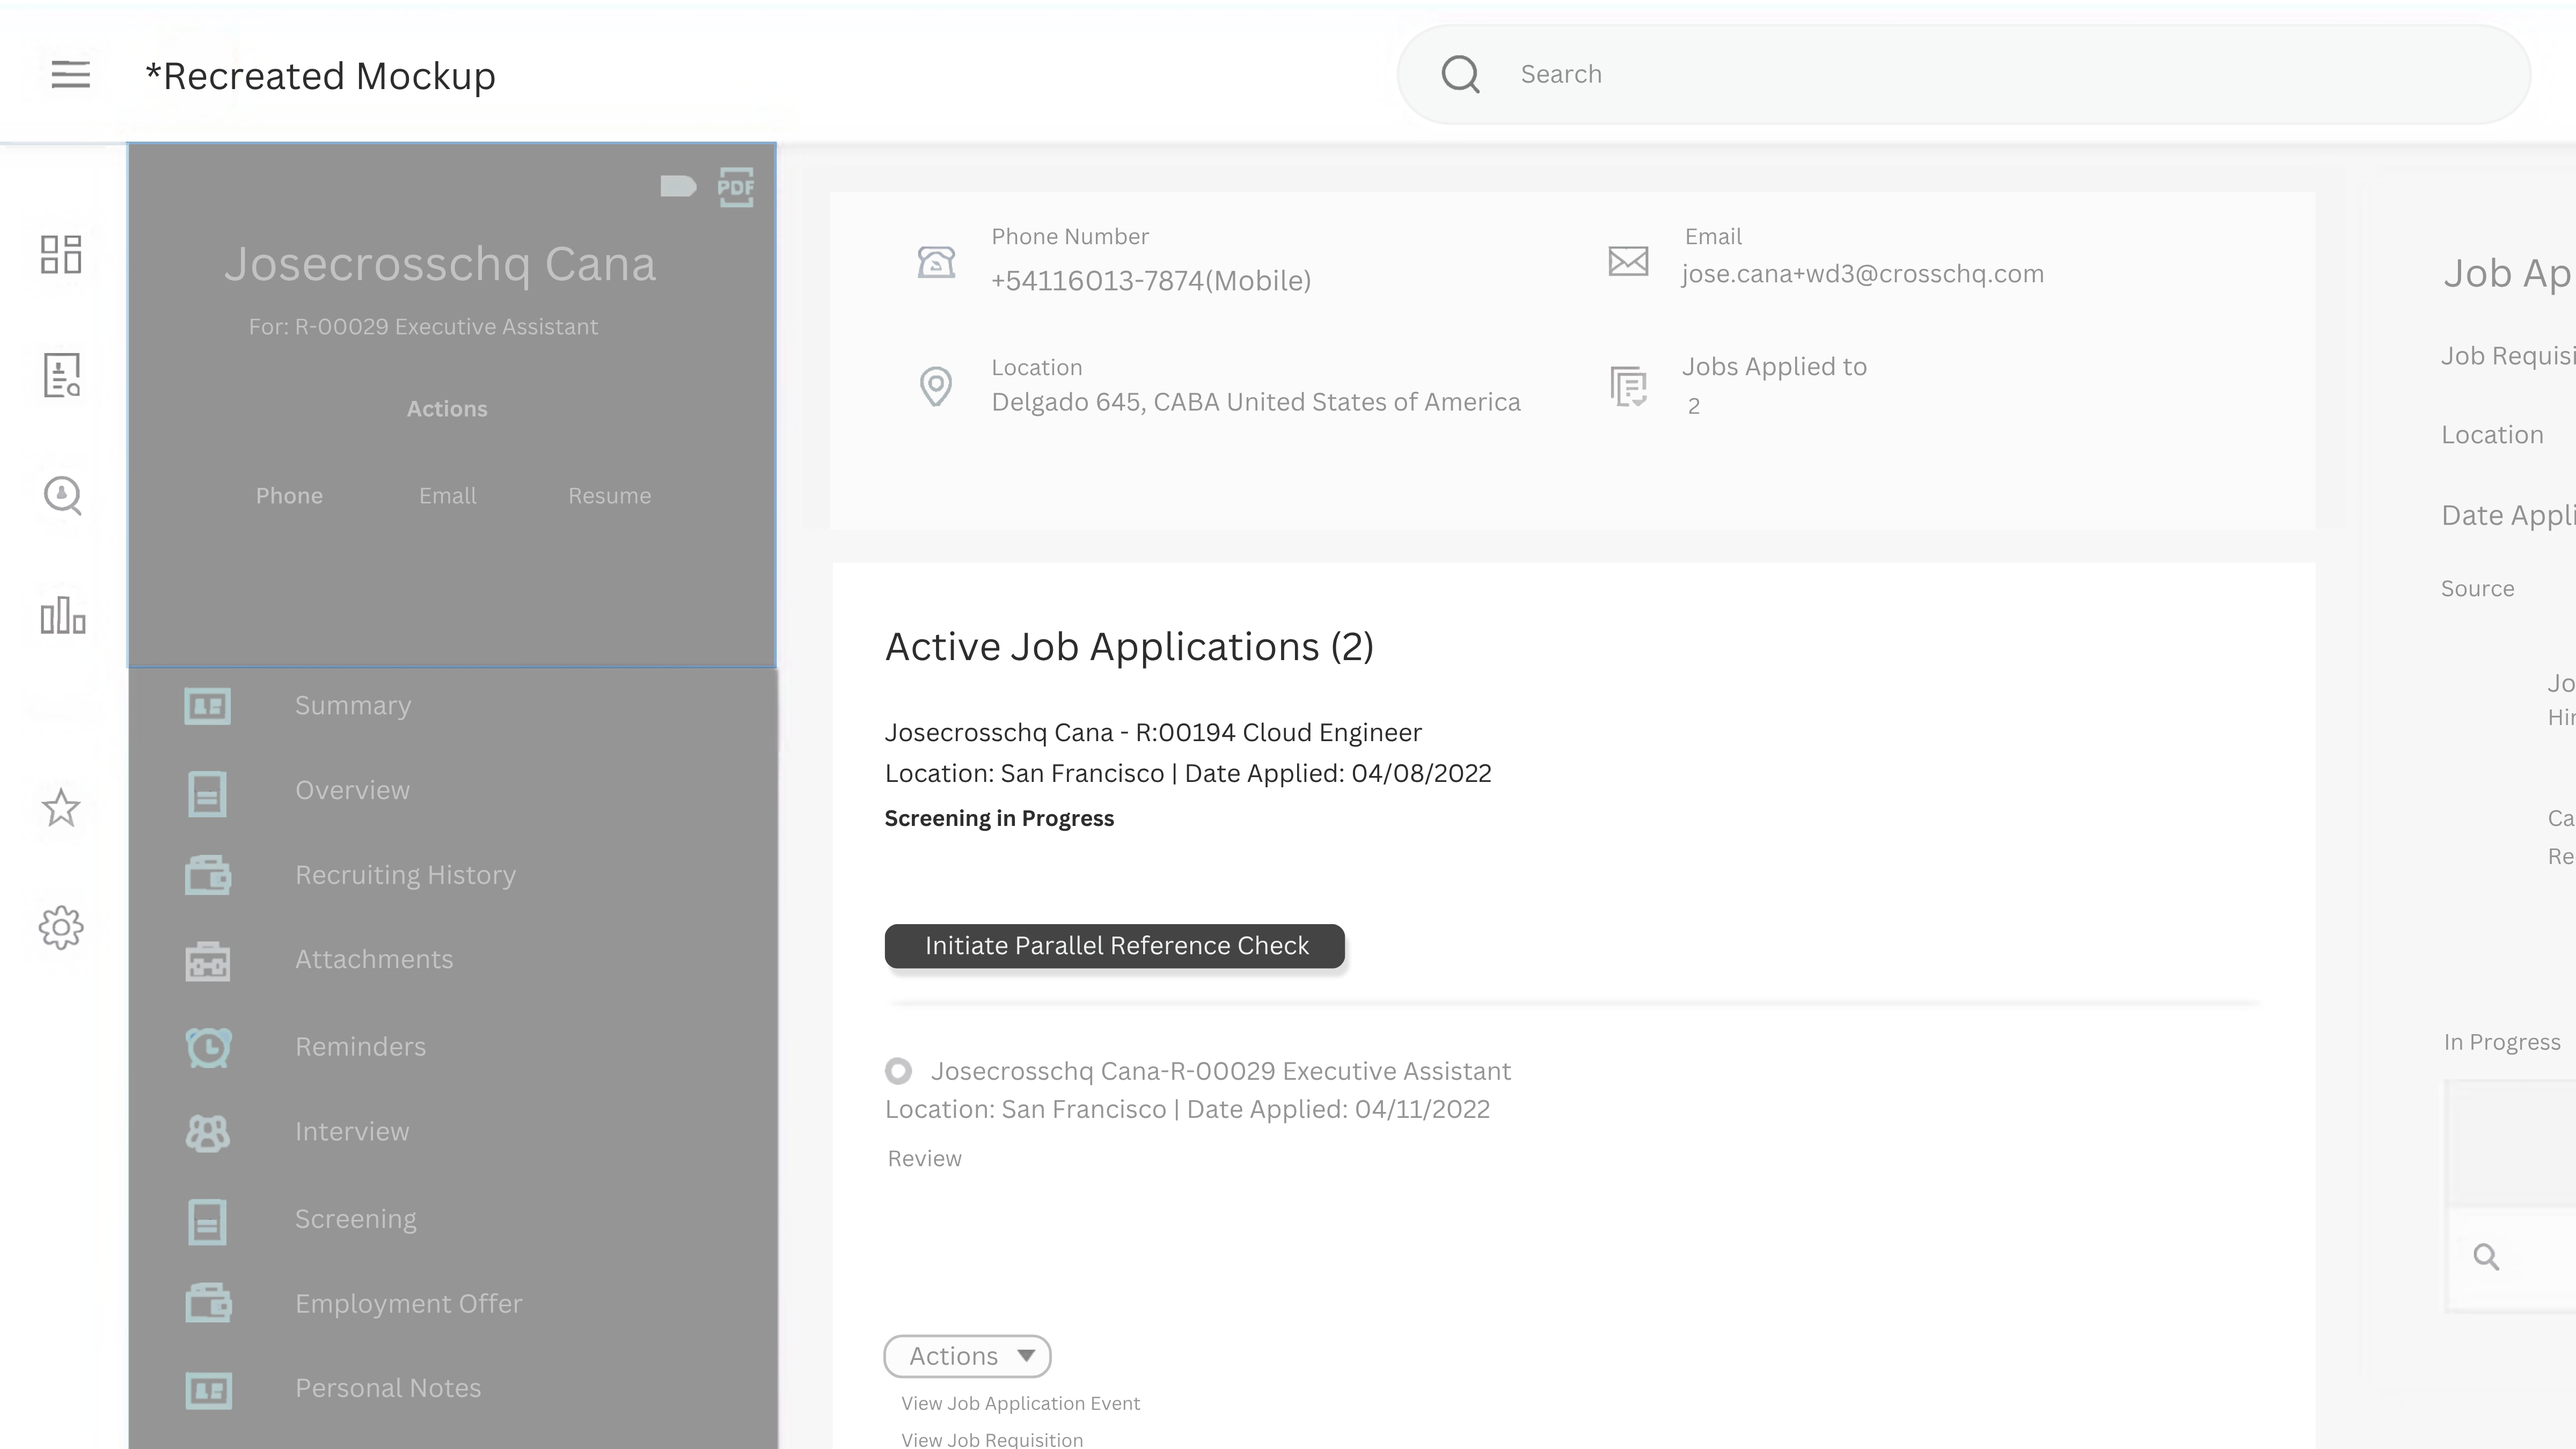
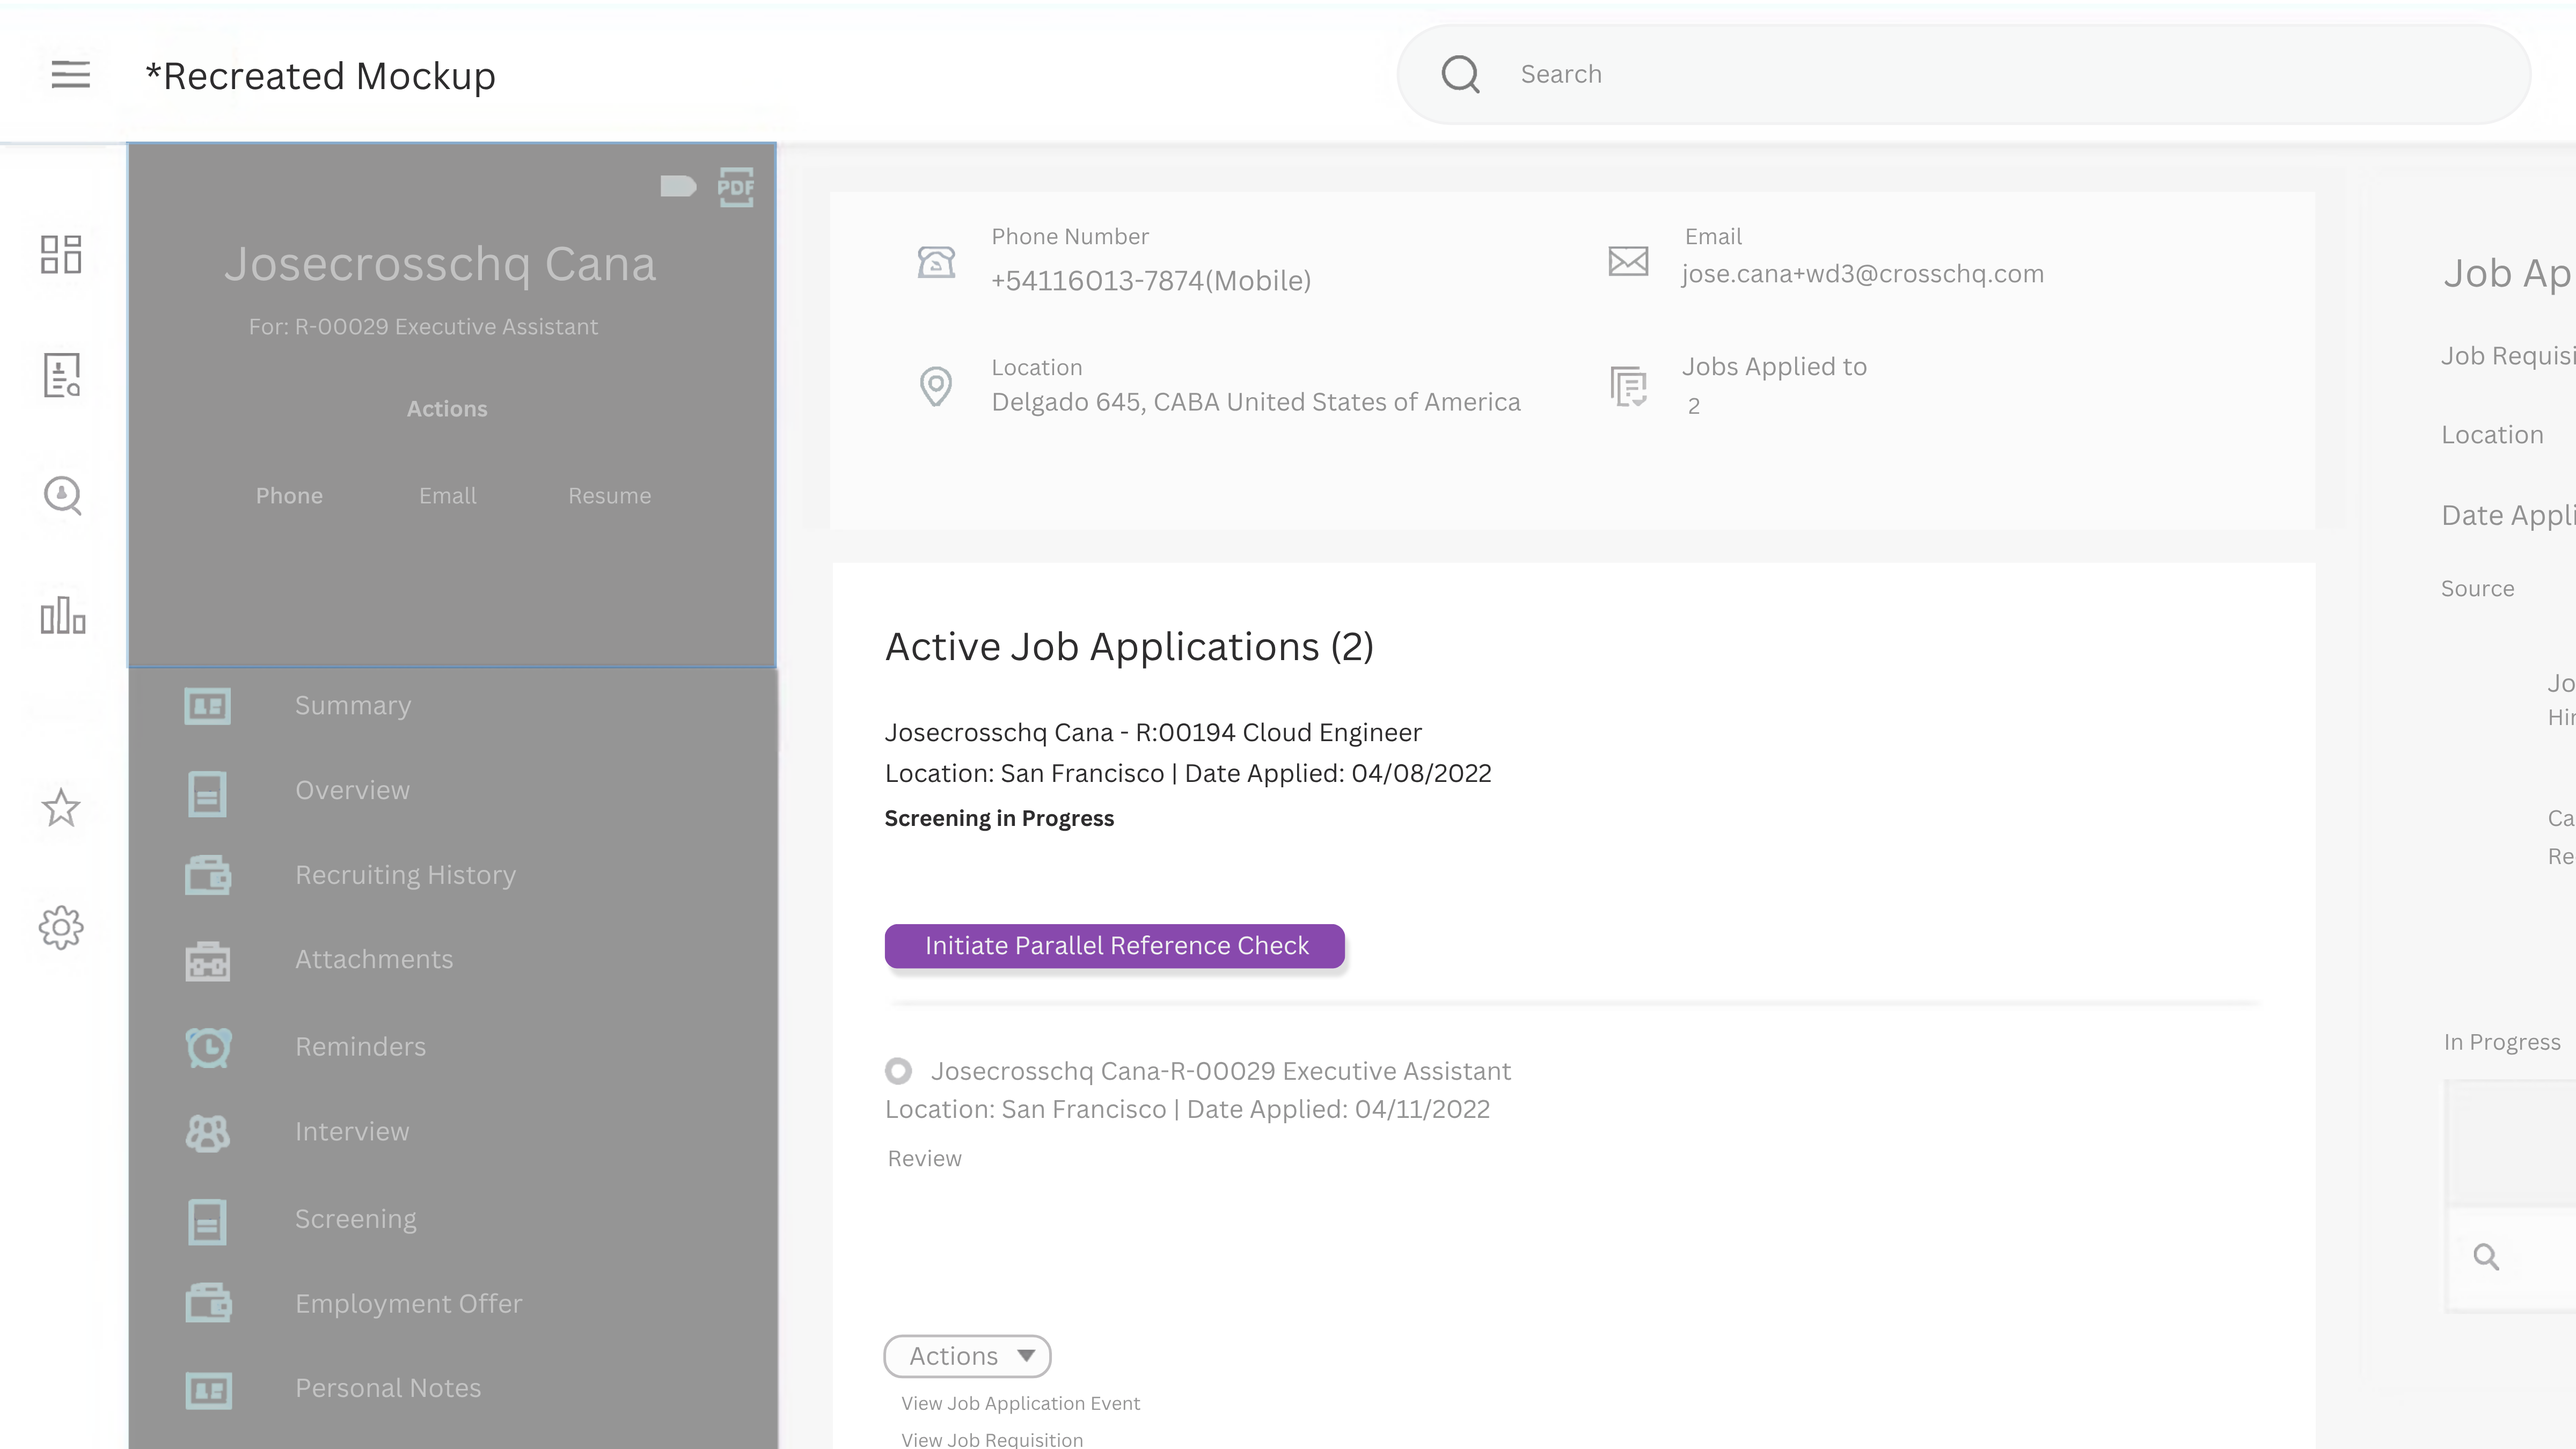
Update case study

Changed region(s): [[0.3438, 0.6222, 0.5312, 0.6844]]

diff --git a/src/content/work/works.ts b/src/content/work/works.ts
@@ -53,7 +53,7 @@ export const works: readonly Work[] = [
 		slug: "project-c-accenture",
 		title: "project-a*",
 		summary:
-			"Designing for an Enterprise Human Capital Management Platform to improve user experience for recruitment workflows.",
+			"Designing for an Enterprise Human Capital Management Platform to improve user experience across recruitment workflows.",
 		roles: ["Product Analyst | Accenture"],
 		accent: {
 			light: "#59376f",

diff --git a/src/app/globals.css b/src/app/globals.css
@@ -898,6 +898,9 @@
 	.research-evidence .editorial-quote {
 		margin-top: 0;
 	}
+	.editorial-section__follow-up {
+		margin-top: var(--space-7);
+	}
 	.research-evidence__primary {
 		display: grid;
 		gap: var(--space-5);
@@ -1101,6 +1104,9 @@
 		.research-visuals,
 		.research-evidence,
 		.requirements-list {
+			margin-top: 0;
+		}
+		.editorial-section__follow-up {
 			margin-top: 0;
 		}
 		.editorial-section--research .research-visuals {
